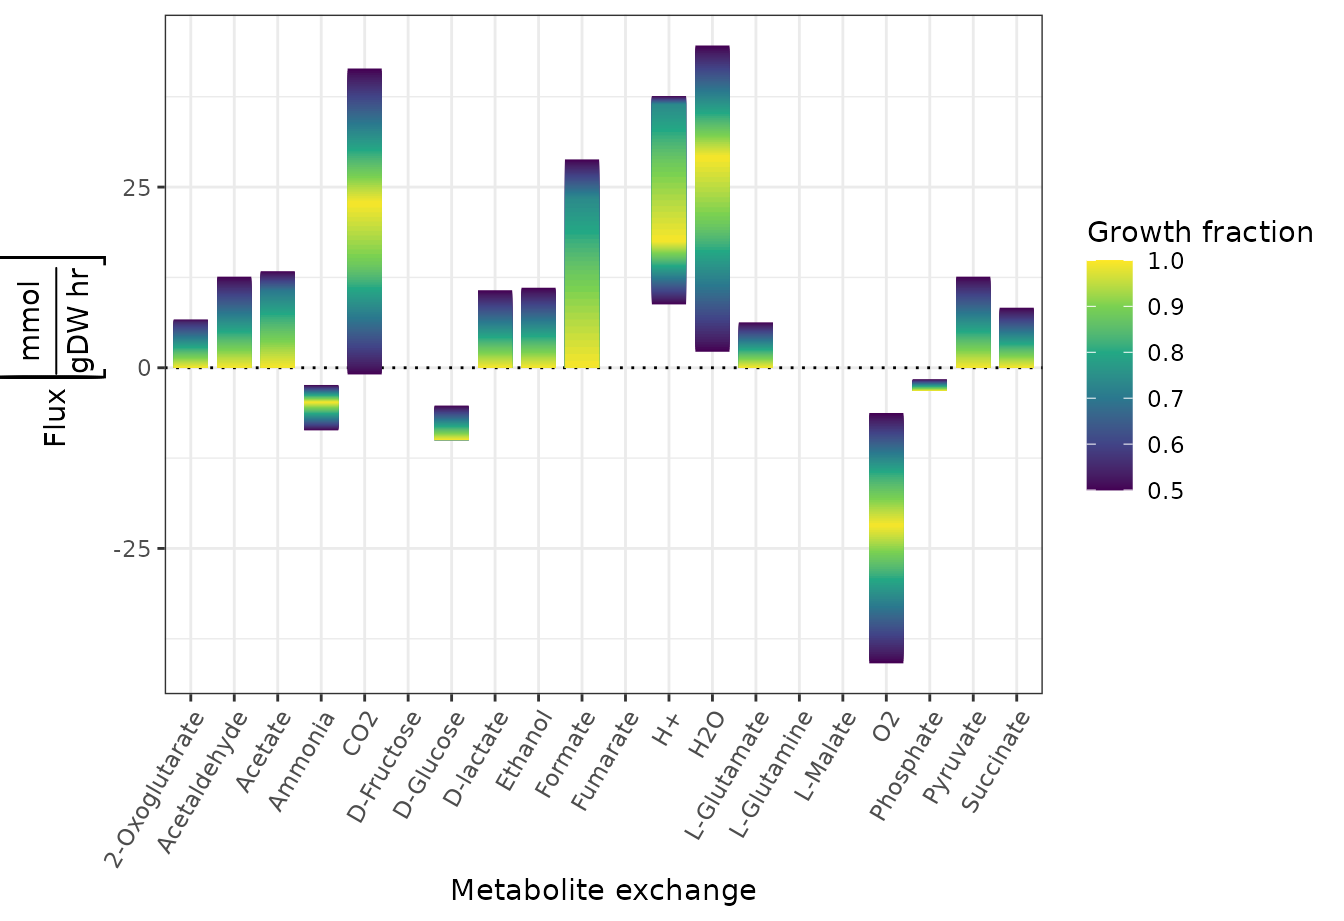
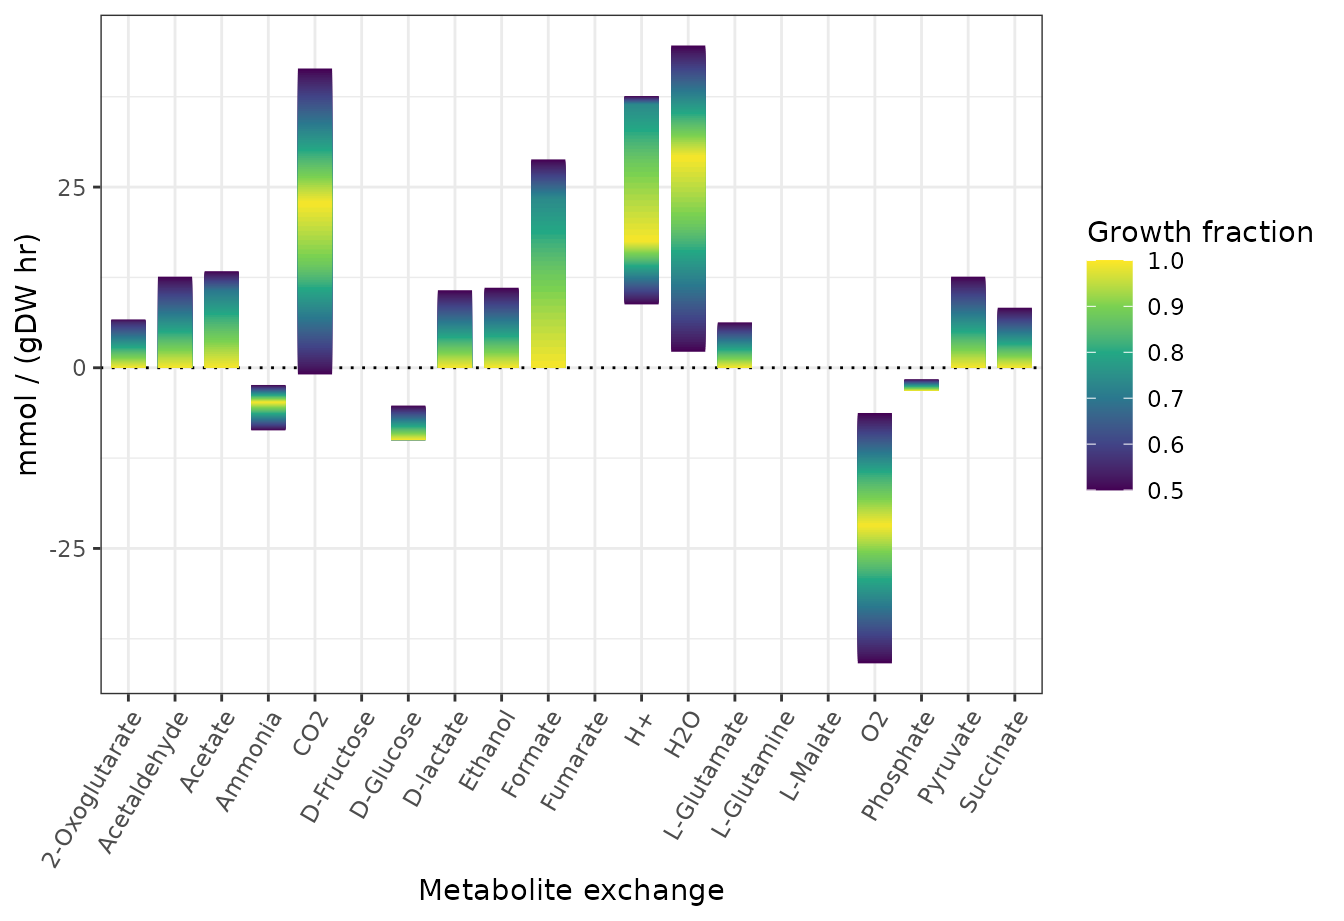
Deploying to gh-pages from @ Waschina/cobrar@c670c048bf7b74023a1d2b00ce657206103a45be 🚀

diff --git a/articles/FVA.html b/articles/FVA.html
@@ -119,7 +119,7 @@ source and under aerobic or anaerobic growth conditions.</p>
 <span>  <span class="fu"><a href="https://ggplot2.tidyverse.org/reference/geom_linerange.html" class="external-link">geom_linerange</a></span><span class="op">(</span><span class="fu"><a href="https://ggplot2.tidyverse.org/reference/aes.html" class="external-link">aes</a></span><span class="op">(</span>ymin <span class="op">=</span> <span class="va">min.flux</span>, ymax <span class="op">=</span> <span class="va">max.flux</span>, col <span class="op">=</span> <span class="va">growth.fraction</span><span class="op">)</span>,</span>
 <span>                 linewidth <span class="op">=</span> <span class="fl">6</span><span class="op">)</span> <span class="op">+</span></span>
 <span>  <span class="fu"><a href="https://ggplot2.tidyverse.org/reference/labs.html" class="external-link">labs</a></span><span class="op">(</span>x <span class="op">=</span> <span class="st">"Metabolite exchange"</span>,</span>
-<span>       y <span class="op">=</span> <span class="fu"><a href="https://rdrr.io/r/base/expression.html" class="external-link">expression</a></span><span class="op">(</span><span class="va">Flux</span><span class="op">~</span><span class="fu">bgroup</span><span class="op">(</span><span class="st">"["</span>,<span class="fu">frac</span><span class="op">(</span><span class="va">mmol</span>,<span class="va">gDW</span><span class="op">~</span><span class="va">hr</span><span class="op">)</span>,<span class="st">"]"</span><span class="op">)</span><span class="op">)</span>,</span>
+<span>       y <span class="op">=</span> <span class="st">"mmol / (gDW hr)"</span>,</span>
 <span>       color <span class="op">=</span> <span class="st">"Growth fraction"</span><span class="op">)</span> <span class="op">+</span></span>
 <span>  <span class="fu"><a href="https://ggplot2.tidyverse.org/reference/ggtheme.html" class="external-link">theme_bw</a></span><span class="op">(</span><span class="op">)</span> <span class="op">+</span></span>
 <span>  <span class="fu"><a href="https://ggplot2.tidyverse.org/reference/theme.html" class="external-link">theme</a></span><span class="op">(</span>axis.text.x <span class="op">=</span> <span class="fu"><a href="https://ggplot2.tidyverse.org/reference/element.html" class="external-link">element_text</a></span><span class="op">(</span>angle <span class="op">=</span> <span class="fl">60</span>, hjust <span class="op">=</span> <span class="fl">1</span>, vjust <span class="op">=</span> <span class="fl">1</span><span class="op">)</span><span class="op">)</span></span></code></pre></div>
@@ -144,7 +144,7 @@ source and under aerobic or anaerobic growth conditions.</p>
 <span>  <span class="fu"><a href="https://ggplot2.tidyverse.org/reference/geom_linerange.html" class="external-link">geom_linerange</a></span><span class="op">(</span><span class="fu"><a href="https://ggplot2.tidyverse.org/reference/aes.html" class="external-link">aes</a></span><span class="op">(</span>ymin <span class="op">=</span> <span class="va">min.flux</span>, ymax <span class="op">=</span> <span class="va">max.flux</span>, col <span class="op">=</span> <span class="va">growth.fraction</span><span class="op">)</span>,</span>
 <span>                 linewidth <span class="op">=</span> <span class="fl">6</span><span class="op">)</span> <span class="op">+</span></span>
 <span>  <span class="fu"><a href="https://ggplot2.tidyverse.org/reference/labs.html" class="external-link">labs</a></span><span class="op">(</span>x <span class="op">=</span> <span class="st">"Metabolite exchange"</span>,</span>
-<span>       y <span class="op">=</span> <span class="fu"><a href="https://rdrr.io/r/base/expression.html" class="external-link">expression</a></span><span class="op">(</span><span class="va">Flux</span><span class="op">~</span><span class="fu">bgroup</span><span class="op">(</span><span class="st">"["</span>,<span class="fu">frac</span><span class="op">(</span><span class="va">mmol</span>,<span class="va">gDW</span><span class="op">~</span><span class="va">hr</span><span class="op">)</span>,<span class="st">"]"</span><span class="op">)</span><span class="op">)</span>,</span>
+<span>       y <span class="op">=</span> <span class="st">"mmol / (gDW hr)"</span>,</span>
 <span>       color <span class="op">=</span> <span class="st">"Growth fraction"</span><span class="op">)</span> <span class="op">+</span></span>
 <span>  <span class="fu"><a href="https://ggplot2.tidyverse.org/reference/ggtheme.html" class="external-link">theme_bw</a></span><span class="op">(</span><span class="op">)</span> <span class="op">+</span></span>
 <span>  <span class="fu"><a href="https://ggplot2.tidyverse.org/reference/theme.html" class="external-link">theme</a></span><span class="op">(</span>axis.text.x <span class="op">=</span> <span class="fu"><a href="https://ggplot2.tidyverse.org/reference/element.html" class="external-link">element_text</a></span><span class="op">(</span>angle <span class="op">=</span> <span class="fl">60</span>, hjust <span class="op">=</span> <span class="fl">1</span>, vjust <span class="op">=</span> <span class="fl">1</span><span class="op">)</span><span class="op">)</span></span></code></pre></div>
